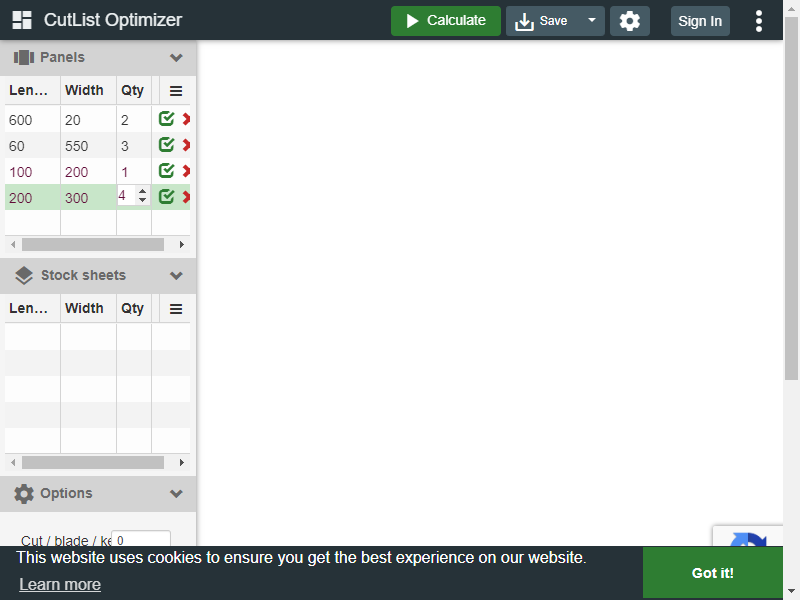
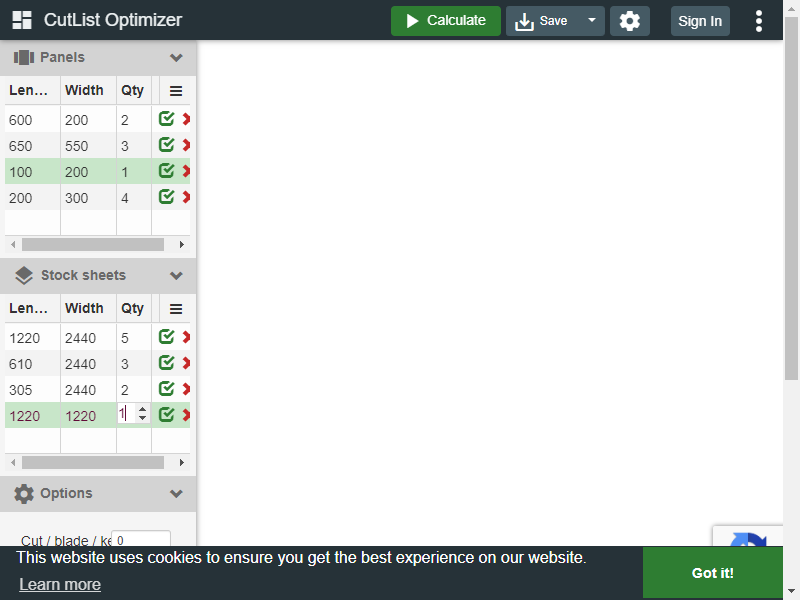
Both sheet entry and screenshot done

diff --git a/screenshotMultipleItem.js b/screenshotMultipleItem.js
@@ -1,0 +1,70 @@
+const puppeteer = require('puppeteer');
+
+(async () => {
+  const browser = await puppeteer.launch({ headless: false });
+  const page = await browser.newPage();
+
+  // Navigate to the website
+  await page.goto('https://www.cutlistoptimizer.com/', { waitUntil: 'networkidle2' });
+
+  // Wait for the main grid container to load
+  await page.waitForSelector('#tiles-grid');
+
+  // Function to click, clear, and type text into an input field
+  const clickAndType = async (cell, text) => {
+    for (let attempt = 0; attempt < 3; attempt++) {
+      try {
+        await cell.click({ clickCount: 3 }); // Click to focus and select any text
+        await page.keyboard.down('Control');
+        await page.keyboard.press('a');
+        await page.keyboard.up('Control');
+        await page.keyboard.press('Backspace'); // Clear the input field
+        await page.keyboard.type(text); // Type the new value
+        await new Promise(resolve => setTimeout(resolve, 500)); // Wait for 500ms to ensure input is registered
+
+        // Verify the value was entered correctly
+        const enteredText = await page.evaluate(cell => cell.textContent, cell);
+        if (enteredText === text) break; // Exit loop if the correct value is entered
+      } catch (error) {
+        console.log(`Attempt ${attempt + 1} failed to click and type. Retrying...`);
+        await new Promise(resolve => setTimeout(resolve, 1000)); // Wait a bit before retrying
+      }
+    }
+  };
+
+  // Wait for the specific cells to be available
+  await page.waitForSelector('.ui-grid-row');
+
+  // Input data for the three rows
+  const data = [
+    ['600', '200', '2'],
+    ['650', '550', '3'],
+    ['100', '200', '1'],
+    ['200', '300', '4']
+  ];
+
+  for (let rowIndex = 0; rowIndex < data.length; rowIndex++) {
+    const cells = await page.$$(`.ui-grid-row:nth-child(${rowIndex + 1}) .ui-grid-cell-contents`);
+    if (cells.length >= 3) {
+      console.log(`Processing row ${rowIndex + 1}`);
+      await clickAndType(cells[0], data[rowIndex][0]); // First cell for Length
+      await clickAndType(cells[1], data[rowIndex][1]); // Second cell for Width
+      await clickAndType(cells[2], data[rowIndex][2]); // Third cell for Qty
+
+      // Verify the values have been entered correctly
+      const cell1Text = await page.evaluate(cell => cell.textContent, cells[0]);
+      const cell2Text = await page.evaluate(cell => cell.textContent, cells[1]);
+      const cell3Text = await page.evaluate(cell => cell.textContent, cells[2]);
+
+      console.log(`Row ${rowIndex + 1} - Length cell: ${cell1Text}, Width cell: ${cell2Text}, Qty cell: ${cell3Text}`);
+    } else {
+      console.error('Not enough cells found in row ' + (rowIndex + 1));
+    }
+  }
+
+  // Take a screenshot
+  await page.screenshot({ path: 'screenshot.png' });
+
+  // Close the browser
+  await browser.close();
+})();
